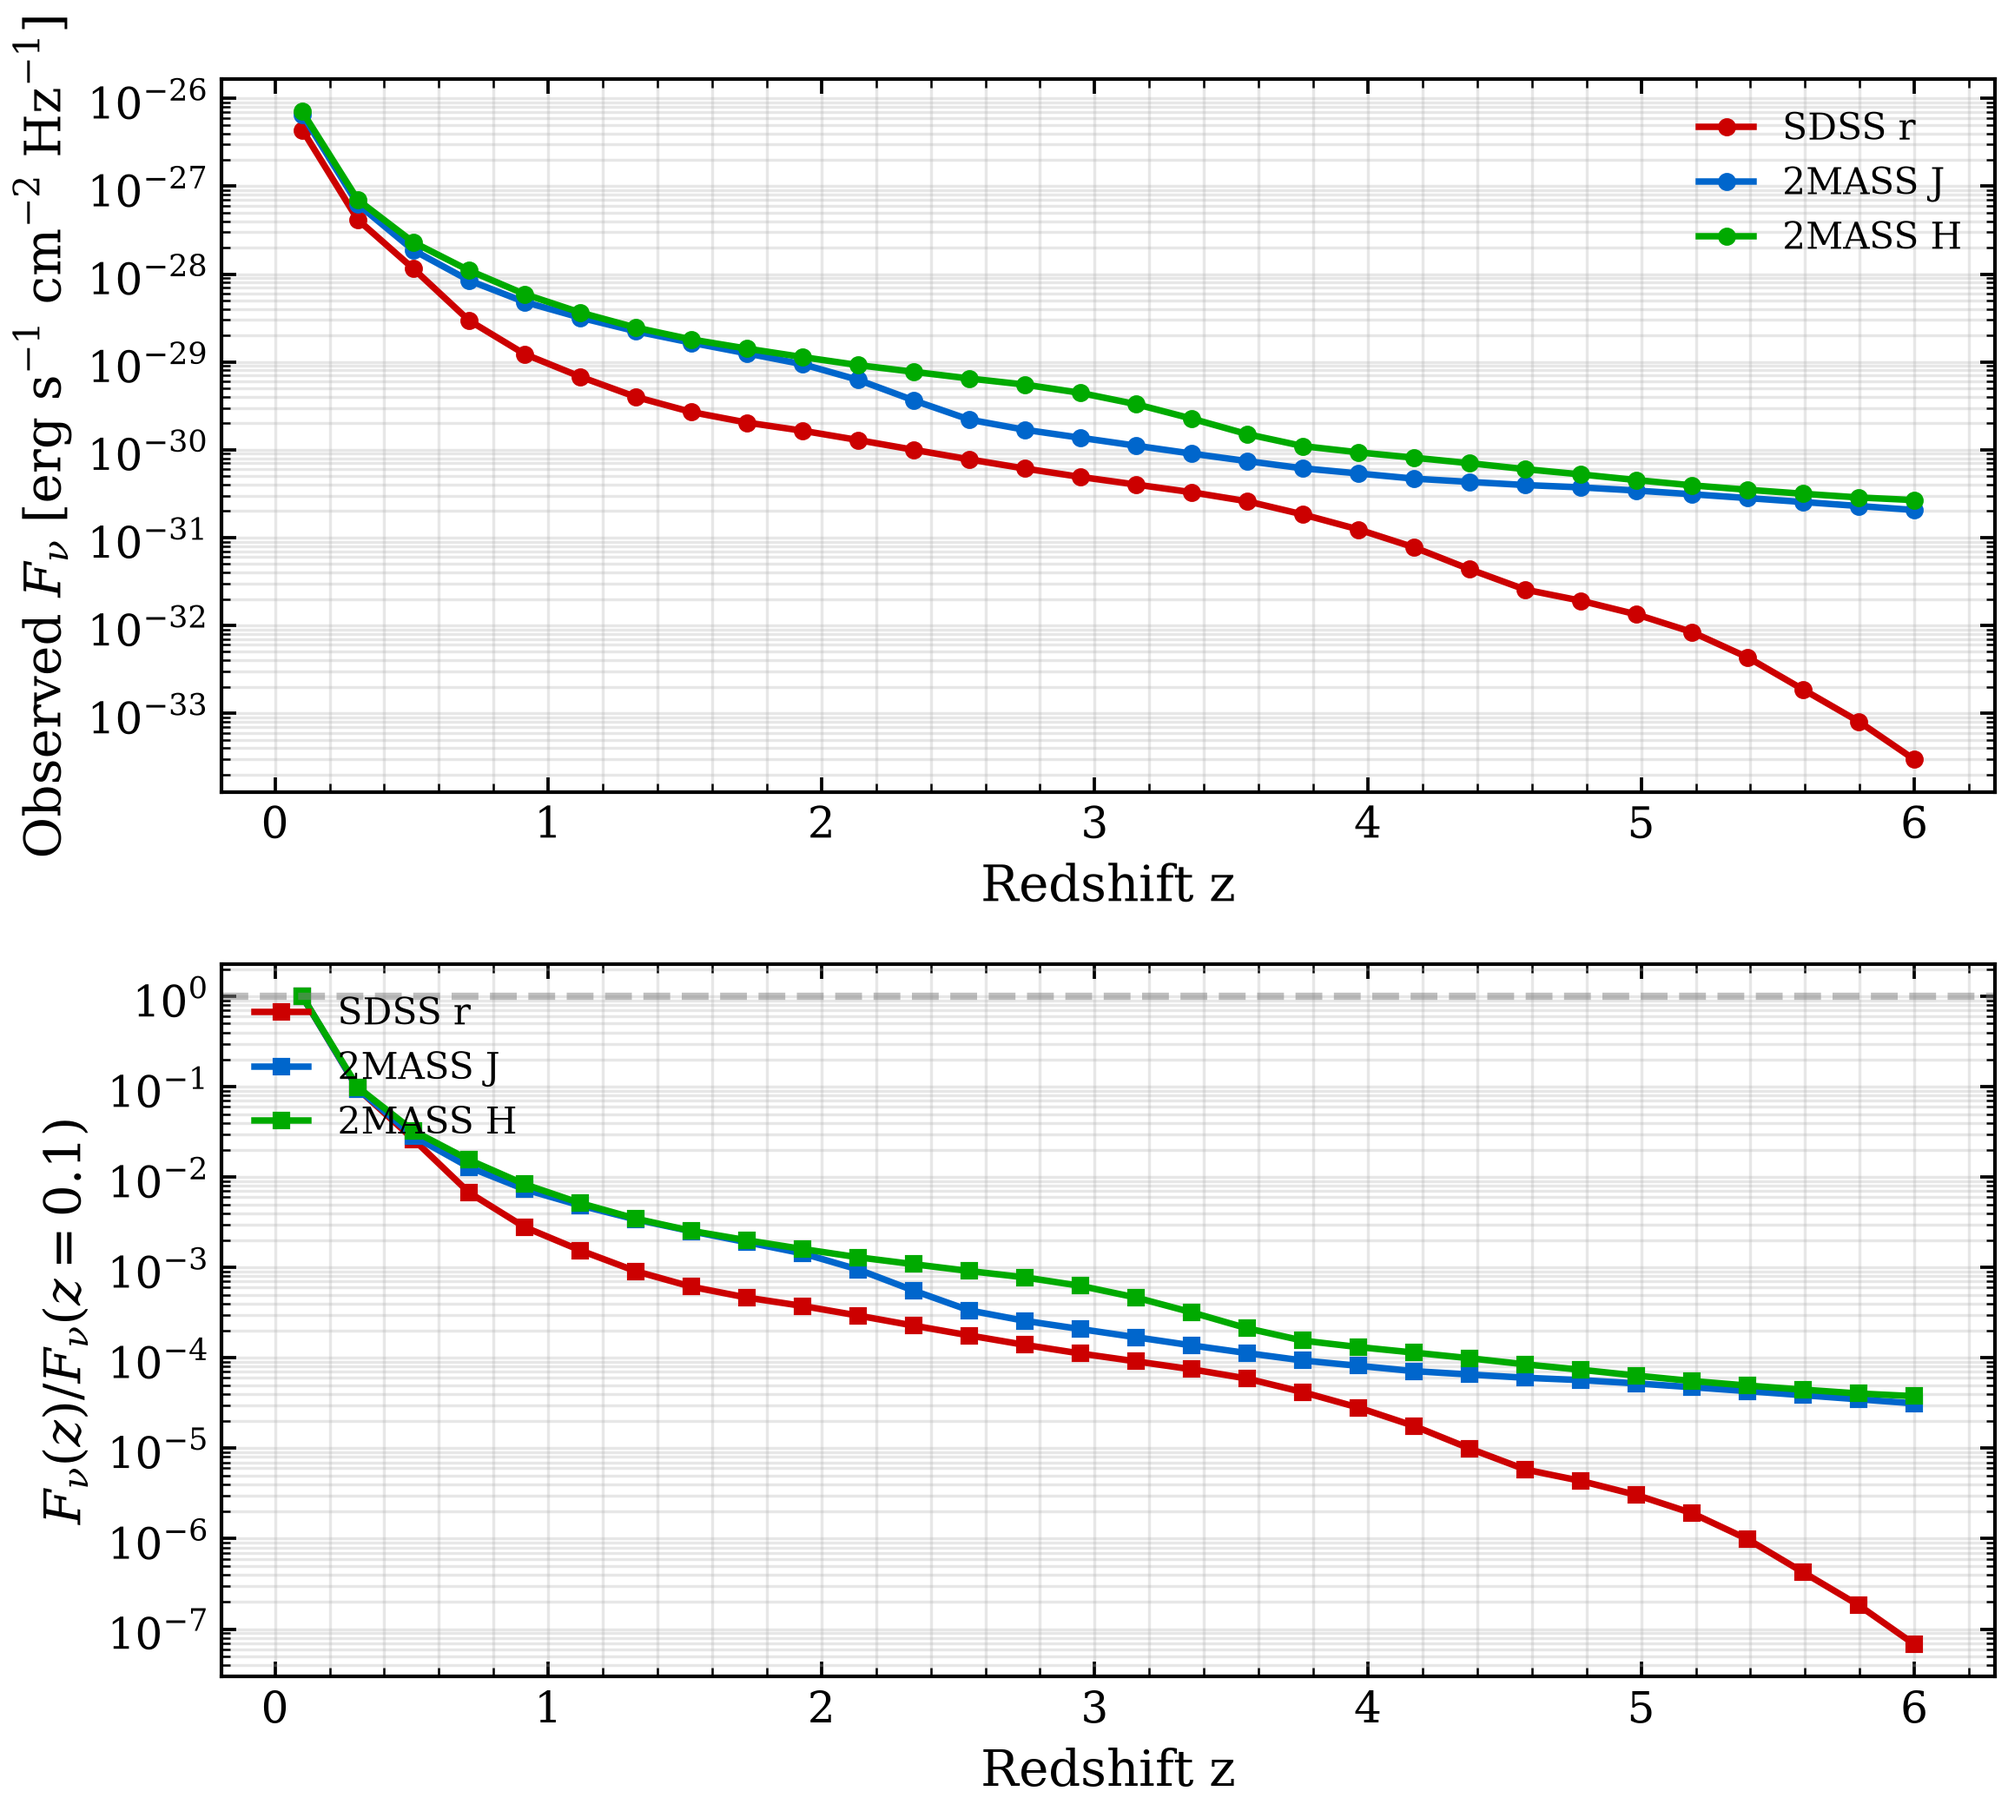
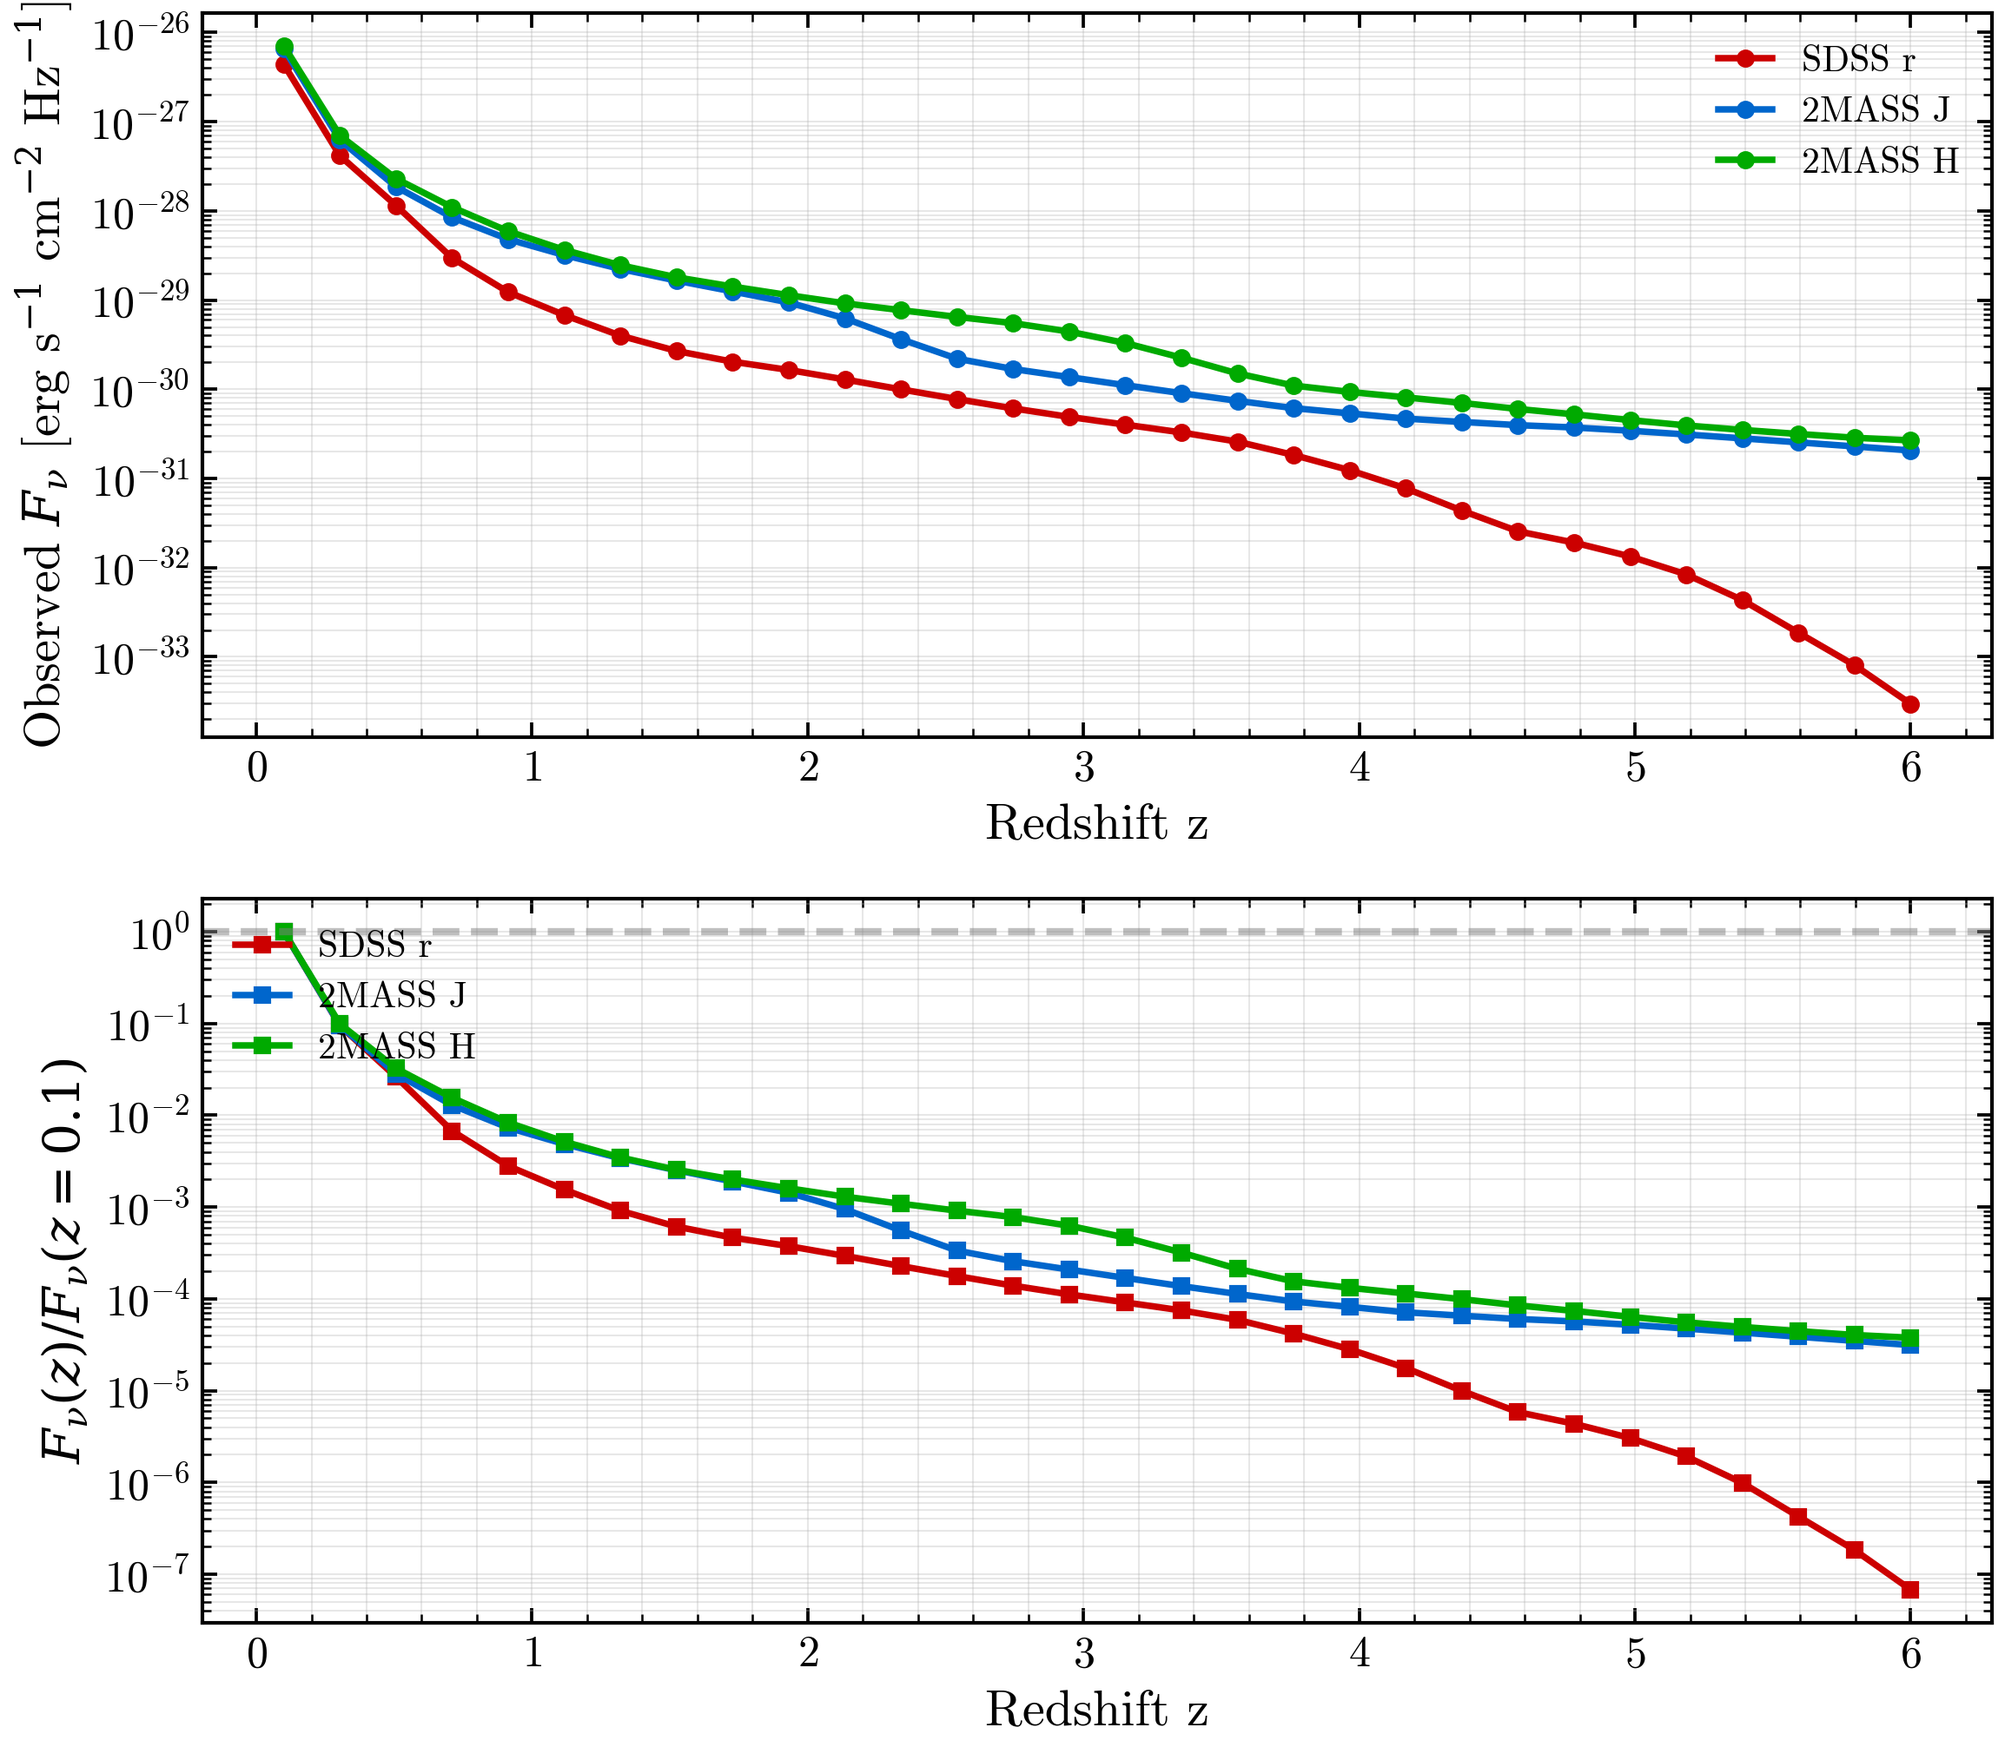
fix(src,tests,docs): the last three sweep stragglers — skirtor_agnfitter joins the agn domain, a stale gallery render regenerates, and a chunking probe regains its met axis
1. skirtor_agnfitter (a shipped component, skirtor_agnfitter_model.py) was
   never added to _DOMAIN_MEMBERSHIP, so any import of its module left an
   unclassified registry entry — the domain census failed under xdist and
   the #1521 domain-scoped suggestions omitted it. The name joins the agn
   set; the census-muffling test workaround is reverted (the census was
   right). A second true test polluter (test_dust/test_dust_taylor in
   test_sed_model_component_waveprecomp.py) gets registry save/restore.

2. plot_cosmic_dimming_observed_flux drifted when #1895 reworded its
   docstring (M-sun glyph): the committed rst no longer matched the source.
   Regenerated through the gallery's own render path (rst, md5, zip,
   images).

3. test_issue_1361_grid_build_chunking's fixture lost its met axis to the
   #1796 wildcard change (grid fell to 2 nodes, below the forced chunk
   size); it now frees met logzsol explicitly per the #1926 pattern.

diff --git a/tests/contract/test_sed_model_component_waveprecomp.py b/tests/contract/test_sed_model_component_waveprecomp.py
@@ -20,6 +20,13 @@ from tengri.protocols.component import ForwardState
 
 pytestmark = pytest.mark.contract
 
+# Save registry state before SimpleDustComponent and SimpleDustComponentWithTaylor
+# are defined (they auto-register in _REGISTRY via __init_subclass__).
+# This is necessary to prevent pollution of domain_scoping tests under xdist.
+from tengri.components.sed_model_component import _REGISTRY
+
+_SAVED_REGISTRY_BEFORE_COMPONENTS = dict(_REGISTRY)
+
 
 class SimpleDustComponent(SEDModelComponent):
     """Minimal additive dust-emission component for testing WavePrecomp.
@@ -70,6 +77,25 @@ class SimpleDustComponentWithTaylor(SEDModelComponent):
         sed_out = sed_in + emission
         l_ir = jnp.sum(emission)
         return sed_out, {"L_ir": l_ir}
+
+
+# Restore the registry to its pre-component state so domain_scoping tests pass
+# under xdist (which shares _REGISTRY across test workers).
+_REGISTRY.clear()
+_REGISTRY.update(_SAVED_REGISTRY_BEFORE_COMPONENTS)
+
+
+@pytest.fixture(autouse=True)
+def _cleanup_test_waveprecomp_registry():
+    """Cleanup test components registered during test execution.
+
+    While the module-level restoration above prevents cross-test pollution,
+    this fixture ensures each test sees a consistent registry state.
+    """
+    saved_registry = dict(_REGISTRY)
+    yield
+    _REGISTRY.clear()
+    _REGISTRY.update(saved_registry)
 
 
 class TestWavePrecompActivation:

diff --git a/src/tengri/forward/component_factory.py b/src/tengri/forward/component_factory.py
@@ -99,7 +99,7 @@ _EMISSION_TYPE_ALIASES = {
 # - dust_emission: components with EmissionComponent base (auto-populated)
 # - dust_attenuation: {single_component, two_component, wg00}
 # - nebular: {nebular, shock}
-# - agn: {agn, kd18_disc, powerlaw_disc, cat3d_wind, silva04, skirtor}
+# - agn: {agn, kd18_disc, powerlaw_disc, cat3d_wind, silva04, skirtor, skirtor_agnfitter}
 # - radio: {radio, radio_dpl, radio_powerlaw}
 # - xray: {xray, xray_aird, agn_xray_corona}
 # - igm: {igm}
@@ -124,7 +124,15 @@ def _build_domain_membership_map() -> dict[str, set[str]]:
         "dust_emission": set(),
         "dust_attenuation": {"single_component", "two_component", "wg00"},
         "nebular": {"nebular", "shock"},
-        "agn": {"agn", "kd18_disc", "powerlaw_disc", "cat3d_wind", "silva04", "skirtor"},
+        "agn": {
+            "agn",
+            "kd18_disc",
+            "powerlaw_disc",
+            "cat3d_wind",
+            "silva04",
+            "skirtor",
+            "skirtor_agnfitter",
+        },
         "radio": {"radio", "radio_dpl", "radio_powerlaw"},
         "xray": {"xray", "xray_aird", "agn_xray_corona"},
         "igm": {"igm"},

diff --git a/tests/regression/test_issue_1361_grid_build_chunking.py b/tests/regression/test_issue_1361_grid_build_chunking.py
@@ -52,12 +52,17 @@ def _cue_model(ssp, obs, **extra):
     Two axes matter here. The concatenation this module guards reassembles a flat
     per-node array and *reshapes* it onto the grid, so a one-axis grid would make
     a transposed or mis-ordered reshape indistinguishable from a correct one.
+
+    Note: after #1796 (#1915), sfh wildcards no longer free met_* without an
+    explicit met block. This fixture opts in to metallicity freedom (#1926 pattern)
+    to restore the two-axis grid that the chunking assertions depend on.
     """
     return SEDModel.build(
         ssp_data=ssp,
         observation=obs,
         sfh={"type": "dpl", "all_params": FREE},
         dust={"type": "none"},
+        met={"logzsol": FREE},
         redshift=0.05,
         neb={"type": "cue", "all_params": FIXED, "logU": Uniform(-3.5, -1.5)},
         **extra,

diff --git a/docs/auto_examples/photometry/plot_cosmic_dimming_observed_flux.rst b/docs/auto_examples/photometry/plot_cosmic_dimming_observed_flux.rst
@@ -22,7 +22,7 @@ Cosmic dimming and K-correction with redshift
 ==============================================
 
 How does the observed photometric flux of a FIXED-luminosity galaxy decline with
-redshift? We track a star-forming galaxy (log M* = 10.5, SFR = 10 Msun/yr) across
+redshift? We track a star-forming galaxy (log M* = 10.5, SFR = 10 M☉/yr) across
 z = 0.1 to 6 in three optical/infrared bands (SDSS r, JWST J, JWST H), visualizing
 the three physical effects:
 
@@ -206,7 +206,7 @@ surface brightness; Sandage (1988) on K-corrections as pedagogical tools.
 
 .. rst-class:: sphx-glr-timing
 
-   **Total running time of the script:** (0 minutes 14.742 seconds)
+   **Total running time of the script:** (0 minutes 5.058 seconds)
 
 
 .. _sphx_glr_download_auto_examples_photometry_plot_cosmic_dimming_observed_flux.py:
